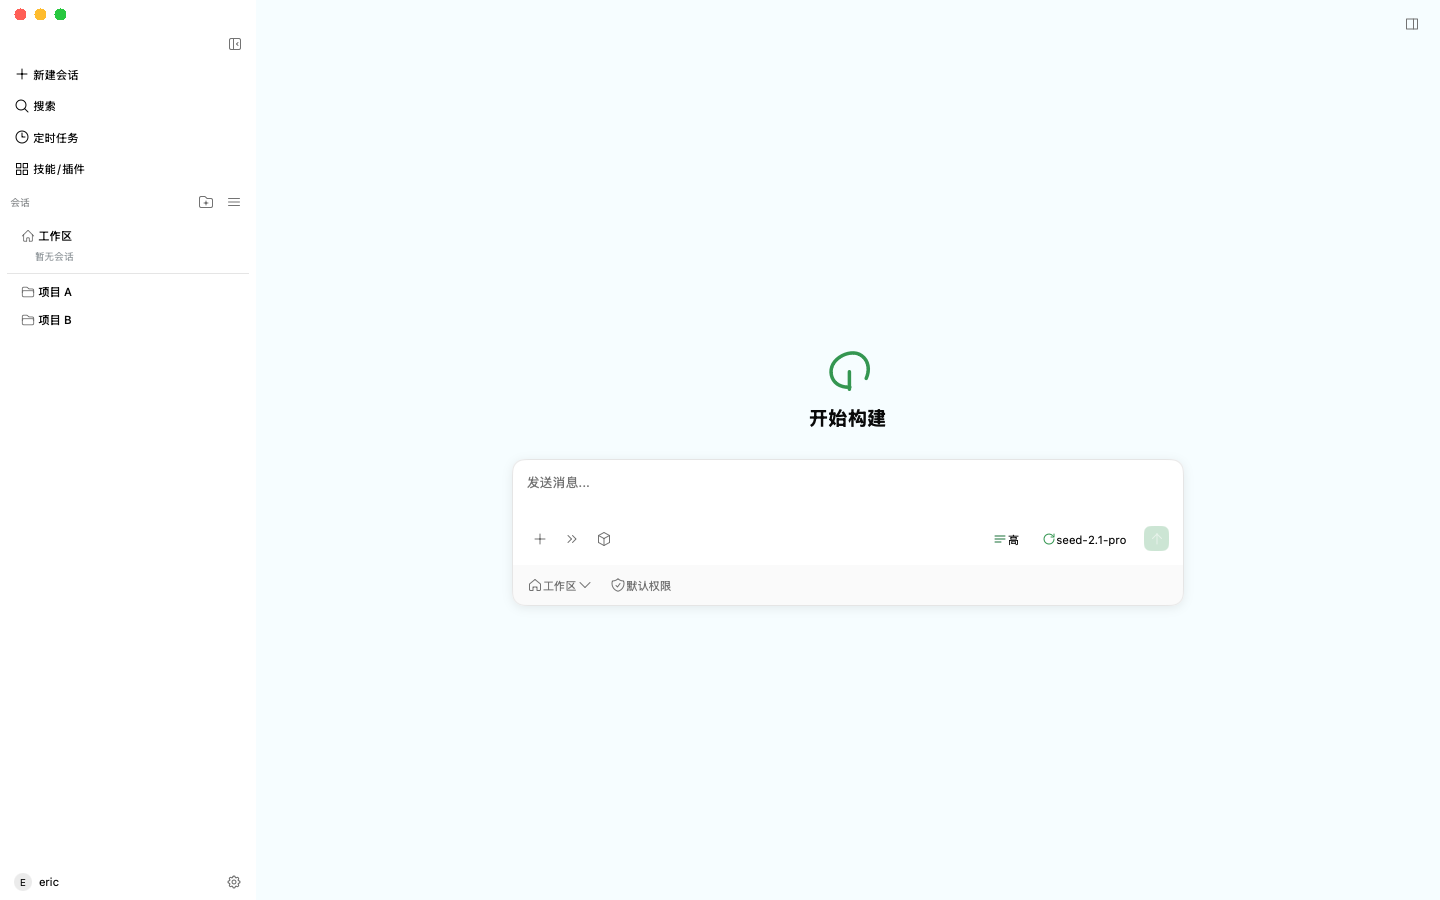
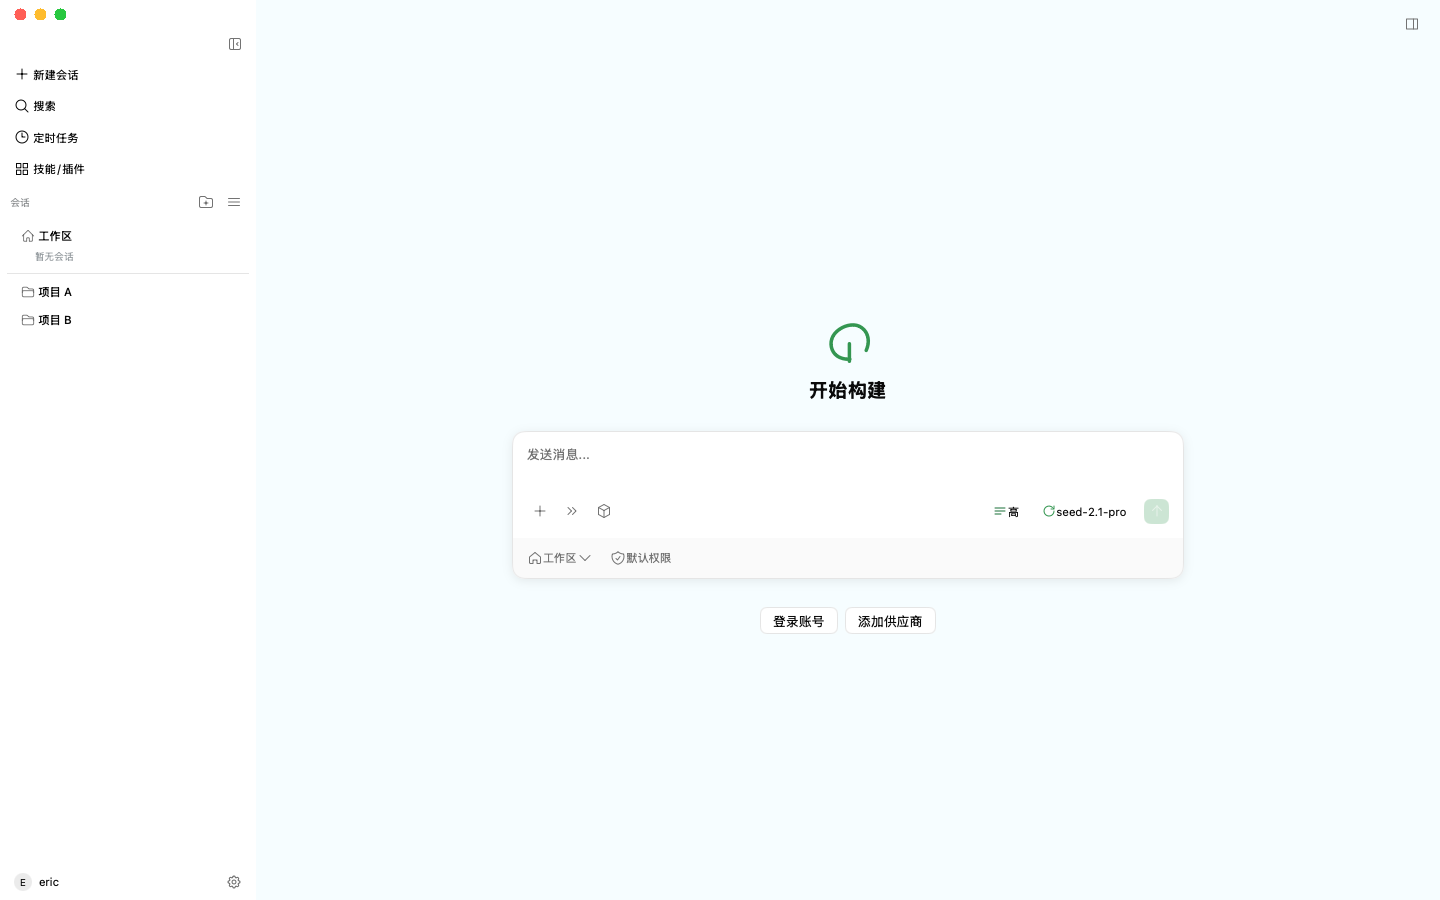
feat(ui): first-run entries and log access on the disconnected card

diff --git a/internal/ui/composer_entries_test.go b/internal/ui/composer_entries_test.go
@@ -1,0 +1,135 @@
+package ui
+
+import (
+	"errors"
+	"strings"
+	"testing"
+
+	gui "github.com/egoist/mygo/ui"
+)
+
+// 空态的两条首次运行入口：点了跳设置对应分节，不新建对话框、不发请求。
+func TestEmptyStateFirstRunGuide(t *testing.T) {
+	for _, tc := range []struct {
+		text  string
+		label string
+		want  settingsSectionID
+	}{
+		{"登录账号", "登录账号：打开设置里的账户分节", secAccount},
+		{"添加供应商", "添加供应商：打开设置里的模型供应分节", secProviders},
+	} {
+		app, tt := newTester(t, StateEmpty)
+		if _, ok := tt.Find(tc.label); !ok {
+			t.Fatalf("空态缺少入口 %q", tc.label)
+		}
+		if err := tt.Click(tc.label); err != nil {
+			t.Fatalf("点 %q：%v", tc.text, err)
+		}
+		if app.screen != ScreenSettings || app.settingsSection != tc.want {
+			t.Fatalf("点「%s」后落在 %v/%v，想要设置屏的 %v",
+				tc.text, app.screen, app.settingsSection, tc.want)
+		}
+	}
+}
+
+// 断线卡：两个入口都在；「查看日志」用系统默认程序打开入口交来的路径。
+func TestDisconnectedCardShowsLogEntry(t *testing.T) {
+	var opened []string
+	restore := swapLogOpenRunner(func(name string, args ...string) error {
+		opened = append(opened, name+" "+strings.Join(args, " "))
+		return nil
+	})
+	defer restore()
+
+	app, tt := disconnectedTester(t)
+	if _, ok := tt.Find("重新连接"); !ok {
+		t.Fatal("断线卡缺少「重新连接」")
+	}
+	if _, ok := tt.Find("查看日志：用系统默认程序打开客户端日志"); !ok {
+		t.Fatal("断线卡缺少「查看日志」")
+	}
+	if err := tt.Click("查看日志：用系统默认程序打开客户端日志"); err != nil {
+		t.Fatalf("点「查看日志」：%v", err)
+	}
+	if len(opened) != 1 || !strings.HasSuffix(opened[0], " "+sampleLogPath) {
+		t.Fatalf("打开命令 = %v，想要打开 %s", opened, sampleLogPath)
+	}
+	if app.logNote != "" {
+		t.Fatalf("打开成功后不该留提示，得到 %q", app.logNote)
+	}
+	if tt.HasText(sampleLogPath) {
+		t.Fatal("打开成功后不该把路径画在断线卡里")
+	}
+}
+
+// 打不开时把路径留在原位供复制，不静默失败。
+func TestDisconnectedCardLogFailureShowsPath(t *testing.T) {
+	restore := swapLogOpenRunner(func(string, ...string) error {
+		return errors.New("无法启动 open")
+	})
+	defer restore()
+
+	app, tt := disconnectedTester(t)
+	if err := tt.Click("查看日志：用系统默认程序打开客户端日志"); err != nil {
+		t.Fatalf("点「查看日志」：%v", err)
+	}
+	tt.Frame()
+	if app.logNote != sampleLogPath {
+		t.Fatalf("失败后留的路径 = %q，想要 %q", app.logNote, sampleLogPath)
+	}
+	if _, ok := tt.Find("复制日志路径"); !ok {
+		t.Fatal("失败后缺少「复制日志路径」入口")
+	}
+}
+
+// 入口没有记下日志路径时说明这一点，不去猜数据目录。
+func TestDisconnectedLogWithoutPath(t *testing.T) {
+	app := NewApp(Options{Source: &fakeSource{conn: disconnectedConn()}})
+	tt := gui.NewTester(app.View, WindowWidth, WindowHeight)
+	if err := tt.Click("查看日志：用系统默认程序打开客户端日志"); err != nil {
+		t.Fatalf("点「查看日志」：%v", err)
+	}
+	if !strings.Contains(app.logNote, "没有记录日志路径") {
+		t.Fatalf("没有路径时的提示 = %q", app.logNote)
+	}
+}
+
+// 平台打开命令：三个平台与不支持的系统。
+func TestOpenLogCommand(t *testing.T) {
+	if name, args, err := openLogCommand("darwin", "/x/dimagent.log"); err != nil ||
+		name != "open" || len(args) != 1 || args[0] != "/x/dimagent.log" {
+		t.Fatalf("darwin: %q %v %v", name, args, err)
+	}
+	if name, _, err := openLogCommand("linux", "/x/dimagent.log"); err != nil || name != "xdg-open" {
+		t.Fatalf("linux: %q %v", name, err)
+	}
+	if name, args, err := openLogCommand("windows", `C:\x\dimagent.log`); err != nil ||
+		name != "cmd" || len(args) != 4 || args[2] != "" {
+		t.Fatalf("windows: %q %v %v", name, args, err)
+	}
+	if _, _, err := openLogCommand("plan9", "/x"); err == nil {
+		t.Fatal("不支持的平台应给原因")
+	}
+}
+
+// sampleLogPath 是测试里的客户端日志路径（不进文档）。
+const sampleLogPath = "/tmp/dimagent-test/logs/dimagent.log"
+
+// disconnectedConn 是一个断线连接：原因写清，卡片原位显示。
+func disconnectedConn() Connection {
+	return Connection{Phase: "disconnected", Reason: "app server connection closed: EOF"}
+}
+
+// disconnectedTester 渲染一张带日志路径的断线卡。
+func disconnectedTester(t *testing.T) (*App, *gui.Tester) {
+	t.Helper()
+	app := NewApp(Options{Source: &fakeSource{conn: disconnectedConn()}, LogPath: sampleLogPath})
+	return app, gui.NewTester(app.View, WindowWidth, WindowHeight)
+}
+
+// swapLogOpenRunner 换掉外部打开执行器，返回恢复函数。
+func swapLogOpenRunner(run func(name string, args ...string) error) func() {
+	prev := logOpenRunner
+	logOpenRunner = run
+	return func() { logOpenRunner = prev }
+}

diff --git a/internal/ui/composer.go b/internal/ui/composer.go
@@ -14,6 +14,13 @@ import (
 // 几何取 design-baseline：卡片圆角 12.75、控件高 25、行内间距 3.5 / 7 / 14。
 // 文案取 requirements-main 的 IN-*：占位「发送消息...」、工具行「+」「»」「技能」、
 // 右侧「高」+ 模型名 + 发送、底部控制行「工作区」「默认权限」。
+//
+// 来源差异（空态）：参考产品的空态只有品牌标记、「开始构建」与输入卡，首次运行
+// 由一次性欢迎卡（inventory-global K5）承接，没有「登录账号」「添加供应商」这两条
+// 入口。这两条是我们的首次运行引导，点了直接跳设置对应分节，不是参考产品的元素。
+//
+// 来源差异（断线卡）：「查看日志」也是我们加的：参考产品在这一位只给原因与重试。
+// 它打开入口交来的客户端日志（Options.LogPath），打开失败时把路径留在原位供复制。
 
 const (
 	// composerMaxWidth 是输入卡的最大宽（参考 max-w-3xl = 672）。
@@ -91,7 +98,8 @@ func (a *App) composer(c *gui.Context) {
 	})
 }
 
-// emptyThread 是空态（NewThread）：品牌标记 +「开始构建」+ 输入卡 + 控制行。
+// emptyThread 是空态（NewThread）：品牌标记 +「开始构建」+ 输入卡 + 控制行，
+// 卡片下方是两条首次运行入口。
 // 它占满主区并整体居中，时间线不在空态里重复写一句「还没有消息」。
 func (a *App) emptyThread(c *gui.Context) {
 	t := c.Theme()
@@ -104,7 +112,22 @@ func (a *App) emptyThread(c *gui.Context) {
 						FontWeight(700).Label("开始构建")
 				})
 				a.inputBlock(c, true)
+				a.firstRunGuide(c)
 			})
+	})
+}
+
+// firstRunGuide 是空态的两条首次运行入口（我们的差异项，见文件头）：
+// 「登录账号」进设置 · 账户、「添加供应商」进设置 · 模型供应。
+// 它只切屏与分节，不发请求、不新开对话框：设置屏里的入口才是真正的写路径。
+func (a *App) firstRunGuide(c *gui.Context) {
+	gui.Row(c).Justify(gui.Center).Gap(space2).Label("首次运行引导").Children(func() {
+		if actionButton(c, "登录账号", "登录账号：打开设置里的账户分节", false, false).Clicked() {
+			a.screen, a.settingsSection = ScreenSettings, secAccount
+		}
+		if actionButton(c, "添加供应商", "添加供应商：打开设置里的模型供应分节", false, false).Clicked() {
+			a.screen, a.settingsSection = ScreenSettings, secProviders
+		}
 	})
 }
 
@@ -258,22 +281,51 @@ type attachmentChipData struct {
 	path      string
 }
 
-// disconnectedCard 是断线时的输入位说明：原因写在原位，给重新连接入口。
+// disconnectedCard 是断线时的输入位说明：原因写在原位，给重新连接与查看日志入口。
+// 「查看日志」打开入口交来的客户端日志（Options.LogPath）；打不开时把路径留在
+// 卡片第二行供复制，不静默失败。
 func (a *App) disconnectedCard(c *gui.Context) {
 	t := c.Theme()
-	gui.Column(c).MinHeight(ComposerMinHeight).Padding(space4).
+	gui.Column(c).MinHeight(ComposerMinHeight).Padding(space4).Gap(space2).
 		Background(t.Surface).Border(strokeHairline, t.Border).
-		Radius(radiusWindowCard).Children(func() {
-		gui.Row(c).Gap(space2).AlignItems(gui.Center).Label("连接断开").Children(func() {
+		Radius(radiusWindowCard).Label("连接断开").Children(func() {
+		gui.Row(c).Gap(space2).AlignItems(gui.Center).Children(func() {
 			iconGlyph(c, iconWarn, t.Danger, "exclamation")
 			typeBody.style(t, gui.Text(c, "连接已断开："+a.liveConnection().Reason)).
 				TextColor(t.Danger).SingleLine()
 			gui.Spacer(c)
+			if actionButton(c, "查看日志", "查看日志：用系统默认程序打开客户端日志", false, false).Clicked() {
+				a.openLog()
+			}
 			if actionButton(c, "重新连接", "重新连接服务端", false, false).Clicked() && a.intents != nil {
 				a.dispatch("重新连接", a.intents.Reconnect, nil)
 			}
 		})
+		if a.logNote != "" {
+			gui.Row(c).Gap(space2).AlignItems(gui.Center).Label("日志路径").Children(func() {
+				typeCode.style(t, gui.Text(c, a.logNote)).TextColor(t.TextMuted).SingleLine()
+				if iconButton(c, iconButtonSpec{
+					icon: iconClipboard, label: "复制日志路径", tip: "复制日志路径", size: rowCompact,
+				}) {
+					c.WriteClipboard(a.logNote)
+				}
+			})
+		}
 	})
+}
+
+// openLog 打开客户端日志：成功不留提示，失败把路径（或缺失原因）留在第二行。
+// 打开是本地动作，不经过 Intents：它不是对会话的写入，也不碰 App Server。
+func (a *App) openLog() {
+	if a.logPath == "" {
+		a.logNote = "入口没有记录日志路径（-log 为空）"
+		return
+	}
+	if err := openWithSystem(a.logPath); err != nil {
+		a.logNote = a.logPath
+		return
+	}
+	a.logNote = ""
 }
 
 // approvalCard 是审批卡：整体替换输入区，标题、命令面板与三个决定。

diff --git a/internal/ui/logfile.go b/internal/ui/logfile.go
@@ -1,0 +1,57 @@
+package ui
+
+// 本文件只做一件事：把客户端日志文件交给系统默认处理程序打开。
+//
+// 为什么在视图里做：断线卡的「查看日志」是本地动作——它不读 App Server 的
+// 任何事实，也不经过 Intents 的写路径；日志路径由入口（`cmd/dimagent-ui`）
+// 在启动时建好日志后通过 `Options.LogPath` 交过来，视图不自己推导数据目录，
+// 免得与入口对日志位置的判断分叉。
+//
+// 平台约定与 `internal/workspace` 的外部打开一致（darwin 的 open、Linux 系
+// 的 xdg-open、Windows 的 start）；不支持的系统返回原因，由调用方把路径留在
+// 原位供复制，不静默失败。
+
+import (
+	"fmt"
+	"io"
+	"os/exec"
+	"runtime"
+)
+
+// openLogCommand 按平台给出打开路径的命令；不支持的系统返回错误。
+func openLogCommand(goos, path string) (string, []string, error) {
+	switch goos {
+	case "darwin":
+		return "open", []string{path}, nil
+	case "linux", "freebsd", "openbsd", "netbsd":
+		return "xdg-open", []string{path}, nil
+	case "windows":
+		// start 的第一个空参数是窗口标题，避免带空格的路径被当成标题。
+		return "cmd", []string{"/c", "start", "", path}, nil
+	default:
+		return "", nil, fmt.Errorf("不支持的平台：%s", goos)
+	}
+}
+
+// logOpenRunner 是可替换的外部打开执行器：测试注入，避免真的拉起桌面程序。
+var logOpenRunner = runOpenCommand
+
+// runOpenCommand 启动打开命令；打开命令通常在拉起桌面程序后立即返回。
+func runOpenCommand(name string, args ...string) error {
+	cmd := exec.Command(name, args...)
+	cmd.Stdout = io.Discard
+	cmd.Stderr = io.Discard
+	if err := cmd.Run(); err != nil {
+		return fmt.Errorf("无法启动 %s：%w", name, err)
+	}
+	return nil
+}
+
+// openWithSystem 用系统默认处理程序打开一个已存在的路径。
+func openWithSystem(path string) error {
+	name, args, err := openLogCommand(runtime.GOOS, path)
+	if err != nil {
+		return err
+	}
+	return logOpenRunner(name, args...)
+}

diff --git a/internal/ui/app.go b/internal/ui/app.go
@@ -177,6 +177,10 @@ type Options struct {
 	// Intents 非空时视图上的动作会发起真实写入；为空时动作只留在视图里
 	// （样例走查）。
 	Intents Intents
+	// LogPath 是客户端启动日志的路径（`<数据目录>/logs/dimagent.log`），由入口
+	// 在启动时给出。为空表示这次运行没有日志：断线卡的「查看日志」会写明这一点，
+	// 不自己猜数据目录（视图不推导入口的文件位置）。
+	LogPath string
 	// Changed 在后台意图完成后回调，供入口重绘；可为 nil。
 	Changed func()
 	// StateChanged 在调试键切换状态后回调，供入口更新窗口标题。
@@ -256,6 +260,10 @@ type App struct {
 	intentDone []func()
 	// questionAnswer 是提问卡的回答草稿（可丢的视图状态）。
 	questionAnswer string
+	// logPath 是入口交来的客户端日志路径（Options.LogPath）；logNote 是「查看日志」
+	// 打不开时留在断线卡里的路径或原因。两者都是可丢的视图状态。
+	logPath string
+	logNote string
 	// lastShellRun 是最近一次已发出的命令运行标识，供「中止」使用。
 	lastShellRun string
 
@@ -357,6 +365,7 @@ func NewApp(o Options) *App {
 		selectedSession: "s1",
 		connected:       true,
 		accountInitial:  "E",
+		logPath:         o.LogPath,
 	}
 	a.loadSample()
 	return a

diff --git a/cmd/dimagent-ui/main.go b/cmd/dimagent-ui/main.go
@@ -191,6 +191,8 @@ func main() {
 		Intents: intents,
 		State:   state,
 		Variant: variant,
+		// 断线卡的「查看日志」用它打开客户端日志；样例模式没有日志时为空串。
+		LogPath: startup.Path(),
 		StateChanged: func(s appui.State) {
 			if win != nil {
 				win.SetTitle(title(s))

diff --git a/docs/domains/D14-delivery.md b/docs/domains/D14-delivery.md
@@ -1,6 +1,6 @@
 # D14 界面接入与交付
 
-Status: 现行（2026-11-14）
+Status: 现行（2026-11-18）
 Owner: D14 界面接线（`internal/uiwire`、`internal/ui` 的接线部分、`cmd/dimagent-ui`）
 依据: `docs/project-organization.md` §5 结果包、`docs/domains/U1-ia.md`、`docs/domains/D1-connection.md`、`docs/domains/D11a-settings.md`、`docs/domains/D11b-extensions.md`、`docs/domains/D9-terminal.md`
 
@@ -14,24 +14,25 @@ Owner: D14 界面接线（`internal/uiwire`、`internal/ui` 的接线部分、`c
 go build ./...
 ```
 
-### 1.1 样例模式（`-demo`，默认）
+### 1.1 样例模式（`-demo`）
 
 不连 App Server，只用静态样例画六个区域与五种状态；截图与走查用这一模式。
+**连接是默认**，样例要显式加 `-demo`（不带参数启动会去发现并连接 App Server）。
 
 ```bash
-go run ./cmd/dimagent-ui
-go run ./cmd/dimagent-ui -state running
-go run ./cmd/dimagent-ui -variant settings
+go run ./cmd/dimagent-ui -demo
+go run ./cmd/dimagent-ui -demo -state running
+go run ./cmd/dimagent-ui -demo -variant settings
 ```
 
-### 1.2 连接真实 App Server（`-connect`）
+### 1.2 连接真实 App Server（默认；`-connect` 可省略）
 
+不带 `-demo` 就是连接模式；旧的 `-connect` 仍被接受，但不改变行为。
 `-server` 指向 App Server 可执行文件；`-mock-model` 让服务端用 mock 模型，不需要账号与网络。
 `-data-dir` 是**客户端数据目录**：端点按真实客户端的规则落在 `<数据目录>/rust/daemon.sock`。
 
 ```bash
 go run ./cmd/dimagent-ui \
-  -connect \
   -data-dir <数据目录> \
   -server <app-server 可执行文件> \
   -mock-model
@@ -135,6 +136,8 @@ go run ./cmd/dimagent-ui -connect -data-dir <数据目录>
 | 标题行 · 结束分支（两步确认） | `EndBranch` | `app.EndBranch` | `session.branch_end` | `TestIntentSelectAndEndBranch` |
 | 输入卡 · 添加文本附件 | `WriteAttachment` | `app.WriteAttachment` | `attachment.put` | `TestIntentAttachment` |
 | 右栏终端 · 清屏 / 复制 | 本地 | 视图状态 / `Context.WriteClipboard` | 无 | 本地动作 |
+| 断线卡 · 查看日志 | 本地 | 系统默认处理程序打开 `<数据目录>/logs/dimagent.log`（入口经 `Options.LogPath` 交来） | 无 | 本地动作；打不开时把路径留在卡片第二行供复制（`TestDisconnectedCardLogFailureShowsPath`） |
+| 空态 · 登录账号 / 添加供应商 | 本地 | 切到设置屏的账户 / 模型供应分节 | 无 | 本地动作；**我们的首次运行引导**，参考产品的空态没有这两条（`TestEmptyStateFirstRunGuide`） |
 | 设置 · 运行时 · 取消模态任务 | `CancelModalityTask` | `app.ModalityWrite(task.cancel)` | `modality.task.cancel` | `TestIntentCancelModalityTask` |
 | 目标行 · 设定 / 修改 | `SetGoal` / `EditGoal` | `app.SetGoal/EditGoal` | `session.goal.set` / `session.goal.edit` | `TestIntentSetGoal` / `TestIntentEditGoal` |
 | 目标行 · 暂停 / 恢复 | `PauseGoal` / `ResumeGoal` | `app.PauseGoal/ResumeGoal` | `session.goal.pause` / `session.goal.resume` | `TestIntentGoalPauseResumeClear` |

diff --git a/docs/domains/screens/README.md b/docs/domains/screens/README.md
@@ -105,8 +105,12 @@ Owner: U2 界面视觉（由 U5 实现产出、U2 判读）
 go test ./internal/ui -run 'TestScreens|TestTitleBarCloseup|TestWordlessCheck' -update
 
 # 真窗口（逐态启动、按窗口号截图；需要屏幕录制权限）
+# 连接是默认，样例图案要显式 -demo（capture-windows.py 内部已带；手截也要带）
 go build -o /tmp/dimagent-ui ./cmd/dimagent-ui
 python3 scripts/capture-windows.py   # 五个状态 + 三档宽度 + 二十八个走查态（branch / branch-end / goal / tasks / settings / settings-rules / ext / ext-failed / term / term-running / term-exited）
+
+# 单态手截（如空态）：-no-focus 不抢焦点、不进 Dock；-screenshot 渲染一帧后写文件退出
+go run ./cmd/dimagent-ui -demo -no-focus -state empty -screenshot <截图路径>
 
 # 基线量测（同一批图上的数值）
 python3 scripts/ui-baseline.py docs/domains/screens/state-default.png
